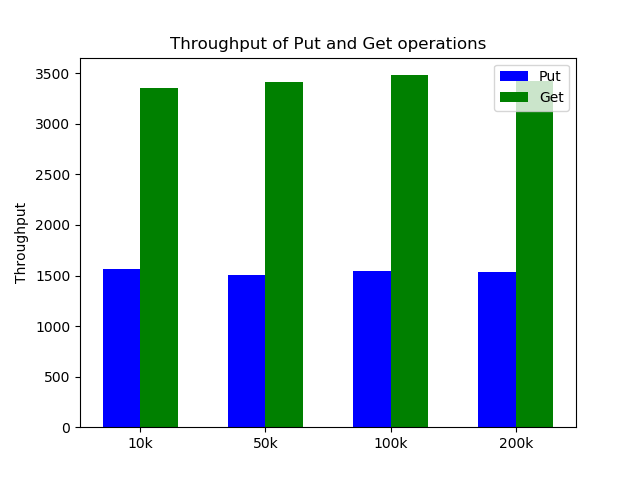
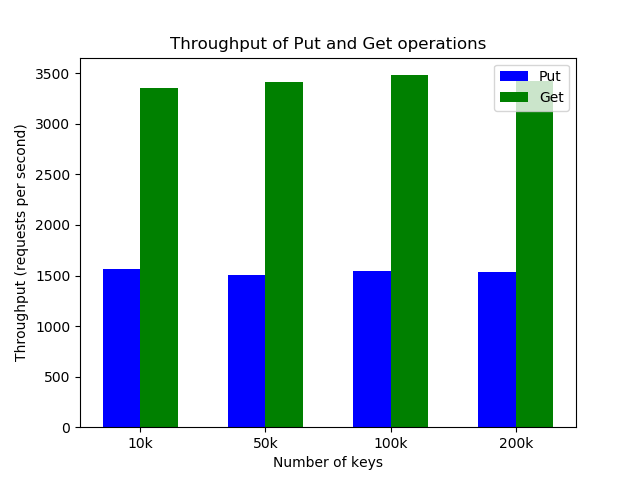
Added plot scripts and results format in utils
(Result1, Plot1) -> L/T vs Num Keys
(Result2, Plot2) -> L/T vs Batch Size
(Result3, Plot3) -> L/T vs Num Clients
(Result1, Plot4) -> L for Uniform vs Exponential

Changed region(s): [[0.0, 0.2812, 0.0625, 0.75], [0.4062, 0.9375, 0.5938, 1.0]]

diff --git a/util/plot4.py b/util/plot4.py
@@ -1,0 +1,53 @@
+import numpy as np
+import matplotlib.pyplot as plt
+
+with open('results1.csv') as f:
+	content = f.readlines()
+
+content = content[1:]
+content = [x.strip() for x in content]
+
+simple_data = []
+for _ in range(4):
+	simple_data.append([])
+
+for i in range(len(content)):
+	content_list = content[i].split(',')
+	if i % 5 == 1:
+		simple_data[0].append(float(content_list[3]))
+		simple_data[1].append(float(content_list[4]))
+	if i % 5 == 2:
+		simple_data[2].append(float(content_list[3]))
+		simple_data[3].append(float(content_list[4]))
+
+print(simple_data)
+
+num_keys = ["10k", "50k", "100k", "200k"]
+x = np.arange(len(num_keys))
+
+fig, ax = plt.subplots()
+ax.bar(x-0.15, simple_data[0], color='b', width=0.3, label='Uniform')
+ax.bar(x+0.15, simple_data[2], color='g', width=0.3, label='Exponential')
+
+ax.set_ylabel('Latency (in ms)')
+ax.set_xlabel('Number of keys')
+ax.set_title('Comparison of workloads')
+ax.set_xticks(x)
+ax.set_xticklabels(num_keys)
+ax.legend(loc='lower right')
+
+plt.show()
+
+
+fig, ax = plt.subplots()
+ax.bar(x-0.15, simple_data[1], color='b', width=0.3, label='Uniform')
+ax.bar(x+0.15, simple_data[3], color='g', width=0.3, label='Exponential')
+
+ax.set_ylabel('Throughput (requests per second)')
+ax.set_xlabel('Number of keys')
+ax.set_title('Comparison of workloads')
+ax.set_xticks(x)
+ax.set_xticklabels(num_keys)
+ax.legend(loc='lower right')
+
+plt.show()

diff --git a/util/plot1.py b/util/plot1.py
@@ -1,0 +1,53 @@
+import numpy as np
+import matplotlib.pyplot as plt
+
+with open('results1.csv') as f:
+	content = f.readlines()
+
+content = content[1:]
+content = [x.strip() for x in content]
+
+simple_data = []
+for _ in range(4):
+	simple_data.append([])
+
+for i in range(len(content)):
+	content_list = content[i].split(',')
+	if i % 5 == 0:
+		simple_data[0].append(float(content_list[3]))
+		simple_data[1].append(float(content_list[4]))
+	if i % 5 == 1:
+		simple_data[2].append(float(content_list[3]))
+		simple_data[3].append(float(content_list[4]))
+
+print(simple_data)
+
+num_keys = ["10k", "50k", "100k", "200k"]
+x = np.arange(len(num_keys))
+
+fig, ax = plt.subplots()
+ax.bar(x-0.15, simple_data[0], color='b', width=0.3, label='Put')
+ax.bar(x+0.15, simple_data[2], color='g', width=0.3, label='Get')
+
+ax.set_ylabel('Latency (in ms)')
+ax.set_xlabel('Number of keys')
+ax.set_title('Latency of Put and Get operations')
+ax.set_xticks(x)
+ax.set_xticklabels(num_keys)
+ax.legend()
+
+plt.show()
+
+
+fig, ax = plt.subplots()
+ax.bar(x-0.15, simple_data[1], color='b', width=0.3, label='Put')
+ax.bar(x+0.15, simple_data[3], color='g', width=0.3, label='Get')
+
+ax.set_ylabel('Throughput (requests per second)')
+ax.set_xlabel('Number of keys')
+ax.set_title('Throughput of Put and Get operations')
+ax.set_xticks(x)
+ax.set_xticklabels(num_keys)
+ax.legend()
+
+plt.show()

diff --git a/util/plot2.py b/util/plot2.py
@@ -1,0 +1,53 @@
+import numpy as np
+import matplotlib.pyplot as plt
+
+with open('results2.csv') as f:
+	content = f.readlines()
+
+content = content[1:]
+content = [x.strip() for x in content]
+
+simple_data = []
+for _ in range(4):
+	simple_data.append([])
+
+for i in range(len(content)):
+	content_list = content[i].split(',')
+	if i % 2 == 0:
+		simple_data[0].append(float(content_list[2]))
+		simple_data[1].append(float(content_list[3]))
+	if i % 2 == 1:
+		simple_data[2].append(float(content_list[2]))
+		simple_data[3].append(float(content_list[3]))
+
+print(simple_data)
+
+num_keys = [100, 200, 300, 400, 500]
+x = np.arange(len(num_keys))
+
+fig, ax = plt.subplots()
+ax.bar(x-0.15, simple_data[0], color='b', width=0.3, label='Put')
+ax.bar(x+0.15, simple_data[2], color='g', width=0.3, label='Get')
+
+ax.set_ylabel('Latency (in ms)')
+ax.set_xlabel('Batch Size')
+ax.set_title('Latency of Put and Get operations')
+ax.set_xticks(x)
+ax.set_xticklabels(num_keys)
+ax.legend()
+
+plt.show()
+
+
+fig, ax = plt.subplots()
+ax.bar(x-0.15, simple_data[1], color='b', width=0.3, label='Put')
+ax.bar(x+0.15, simple_data[3], color='g', width=0.3, label='Get')
+
+ax.set_ylabel('Throughput (requests per second)')
+ax.set_xlabel('Batch Size')
+ax.set_title('Throughput of Put and Get operations')
+ax.set_xticks(x)
+ax.set_xticklabels(num_keys)
+ax.legend()
+
+plt.show()

diff --git a/util/plot3.py b/util/plot3.py
@@ -1,0 +1,53 @@
+import numpy as np
+import matplotlib.pyplot as plt
+
+with open('results3.csv') as f:
+	content = f.readlines()
+
+content = content[1:]
+content = [x.strip() for x in content]
+
+simple_data = []
+for _ in range(4):
+	simple_data.append([])
+
+for i in range(len(content)):
+	content_list = content[i].split(',')
+	if i % 2 == 0:
+		simple_data[0].append(float(content_list[2]))
+		simple_data[1].append(float(content_list[3]))
+	if i % 2 == 1:
+		simple_data[2].append(float(content_list[2]))
+		simple_data[3].append(float(content_list[3]))
+
+print(simple_data)
+
+num_keys = [5, 10, 15, 20, 25, 30]
+x = np.arange(len(num_keys))
+
+fig, ax = plt.subplots()
+ax.plot(simple_data[0], 'b-*', label='Put')
+ax.plot(simple_data[2], 'g-^', label='Get')
+
+ax.set_ylabel('Latency (in ms)')
+ax.set_xlabel('Number of concurrent clients')
+ax.set_title('Impact of concurrent connections on Latency')
+ax.set_xticks(x)
+ax.set_xticklabels(num_keys)
+ax.legend()
+
+plt.show()
+
+
+fig, ax = plt.subplots()
+ax.plot(simple_data[1], 'b-*', label='Put')
+ax.plot(simple_data[3], 'g-^', label='Get')
+
+ax.set_ylabel('Throughput (requests per second)')
+ax.set_xlabel('Number of concurrent clients')
+ax.set_title('Impact of concurrent connections on Total Throughput')
+ax.set_xticks(x)
+ax.set_xticklabels(num_keys)
+ax.legend()
+
+plt.show()
